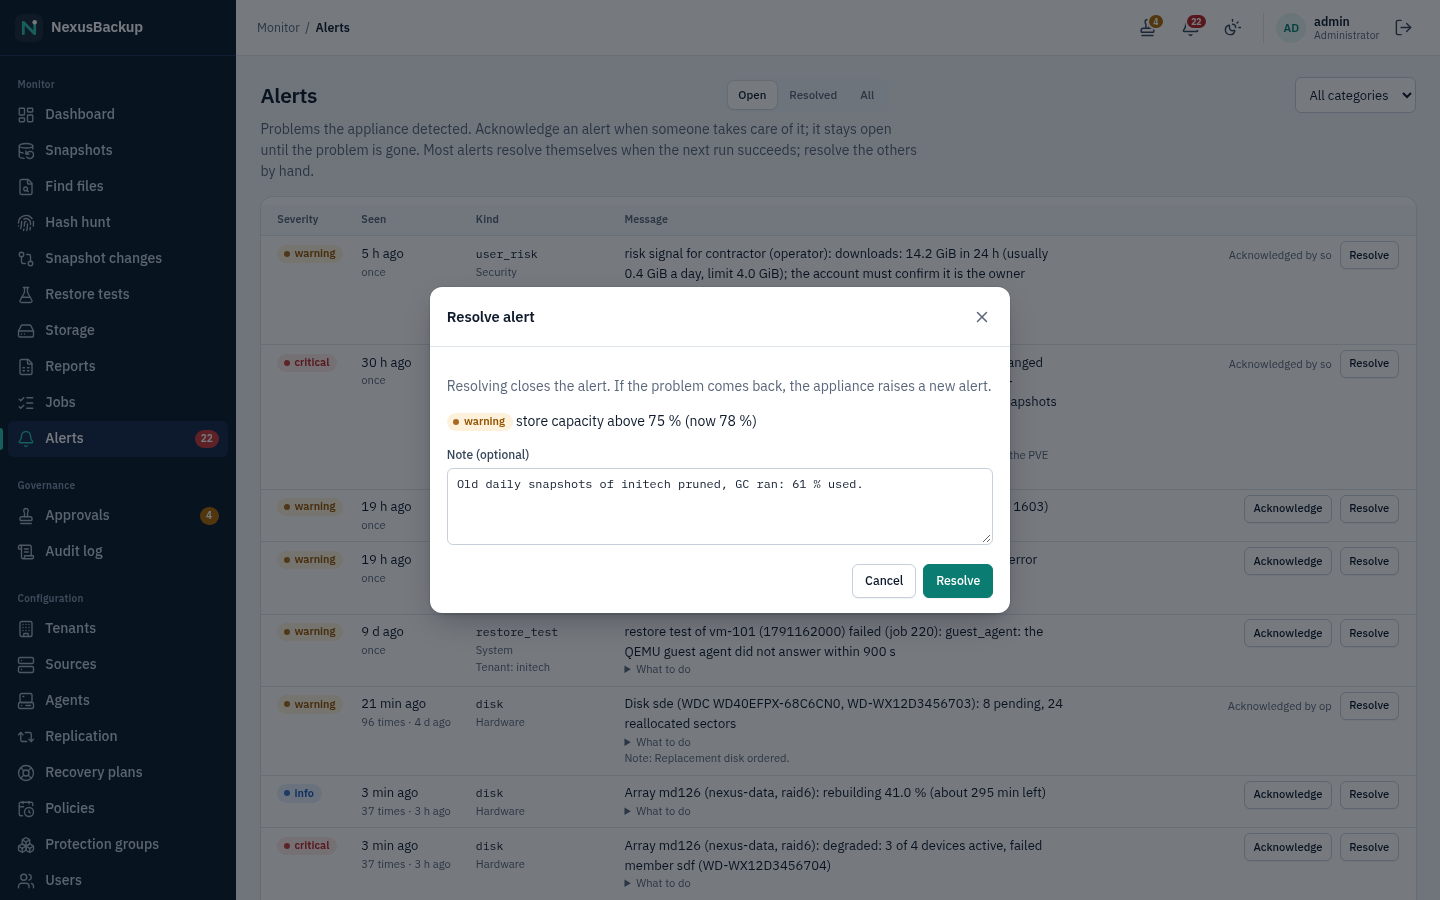
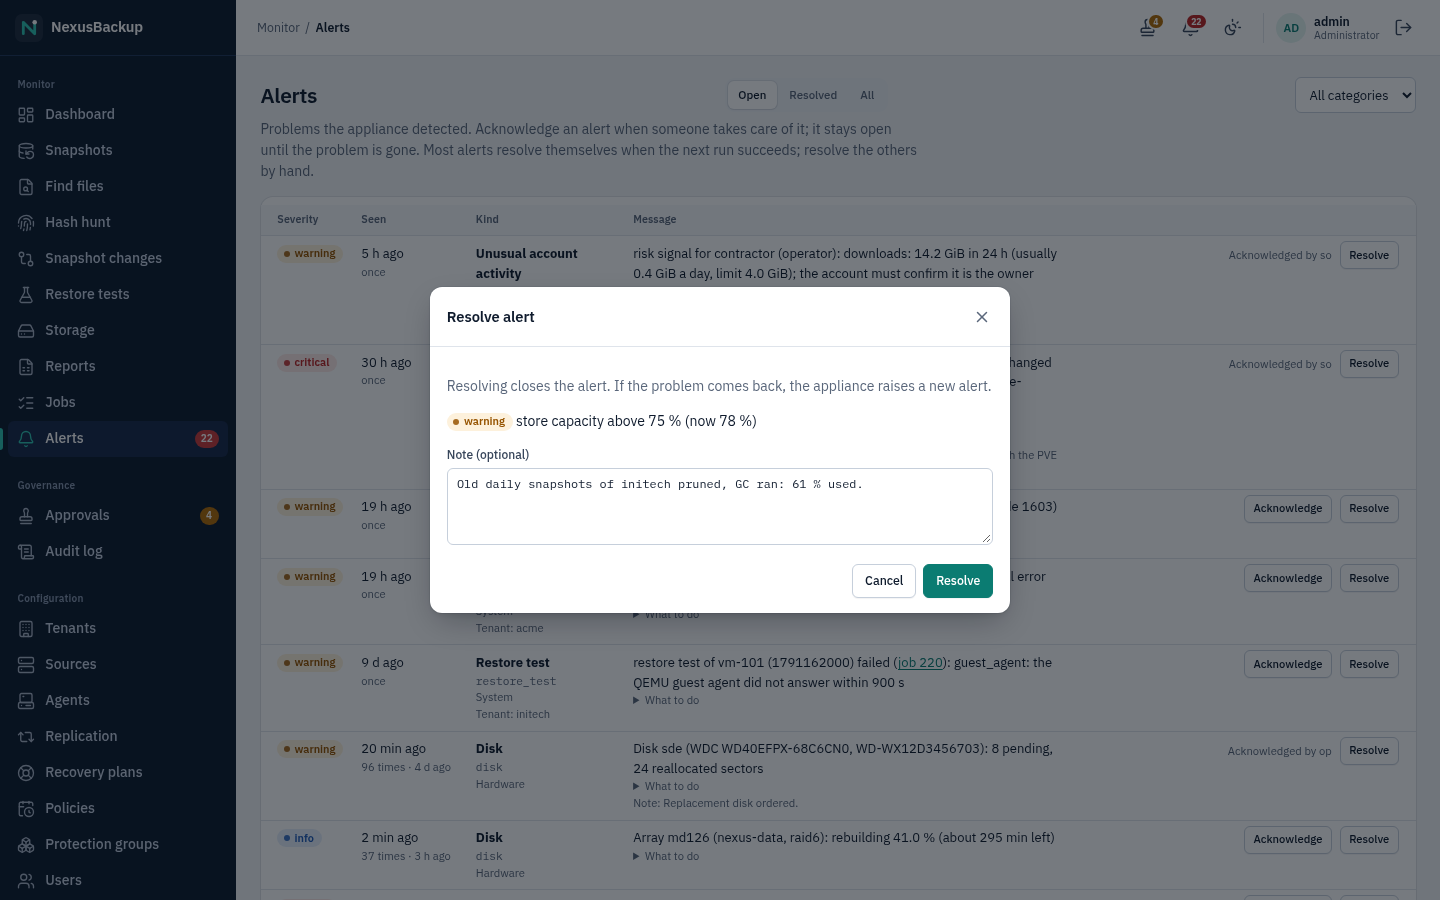
UI alerts: a readable title per alert kind (the code stays below), job numbers in messages link to the job

diff --git a/web/src/lib/i18n.ts b/web/src/lib/i18n.ts
@@ -2554,6 +2554,50 @@ export const en = {
       audit: 'Audit',
     } as Record<string, string>,
     seen: 'Seen',
+    // titles of the alert kinds whose code does not read as a title on its own (others: from the code)
+    kindTitles: {
+      sla_missed: 'RPO missed',
+      gc_quorum: 'Garbage collection needs approval',
+      gc_confirm: 'Garbage collection to confirm',
+      dek_rotation: 'Data key rotation',
+      cert_expiry: 'Certificate expires',
+      vmid_reused: 'VM ID reused by another VM',
+      offsite_lag: 'Offsite copy behind',
+      fleecing_space: 'Fleecing storage low',
+      inventory: 'Guest inventory changed',
+      inventory_refresh: 'Guest inventory not refreshed',
+      consistency: 'Backup not application-consistent',
+      backup_inconsistent: 'Inconsistent backup',
+      orphaned: 'Snapshots of no group',
+      paused: 'Group paused too long',
+      verify: 'Verification found damage',
+      snapshot_damaged: 'Damaged snapshot',
+      job_failed: 'Job failed',
+      clock_skew: 'Clock out of sync',
+      mgmt_allow_reset: 'Management access reset',
+      firewall_reset: 'Firewall reset',
+      console_unlock: 'Console unlocked',
+      console_root_shell: 'Root shell on the console',
+      break_glass: 'Break-glass recovery used',
+      legal_hold_advisory: 'Legal hold advisory',
+      index_backlog: 'File index behind',
+      index_space: 'File index paused (space)',
+      hash_hunt_hit: 'IOC hash found',
+      scan_hit: 'Malware scan hit',
+      malware: 'Malware found',
+      anomaly: 'Unusual changes (ransomware signal)',
+      user_risk: 'Unusual account activity',
+      login_new_device: 'Sign-in from a new device',
+      change_tracking: 'Change tracking missed data',
+      replication_keys: 'Replication keys',
+      replication_verify: 'Replica verification failed',
+      vault_closed: 'Vault closed',
+      vault_disabled: 'Vault disabled',
+      tenant_disabled: 'Tenant disabled',
+      tenant_lockdown: 'Tenant locked down',
+      something_new: 'New version available',
+      test: 'Test alert',
+    } as Record<string, string>,
     count: (n: number) => (n === 1 ? 'once' : `${n} times`),
     firstLast: (first: string, last: string) => `first ${first}, last ${last}`,
     tenant: "Tenant",

diff --git a/web/src/pages/Alerts.svelte b/web/src/pages/Alerts.svelte
@@ -3,7 +3,7 @@
   import { get, post, act, errText, qs } from '../lib/api';
   import { session } from '../lib/session.svelte';
   import { can } from '../lib/roles';
-  import { route } from '../lib/router.svelte';
+  import { href, route } from '../lib/router.svelte';
   import { fmtAgo, fmtTime } from '../lib/format';
   import { t } from '../lib/i18n';
   import type { Alert, Snapshot } from '../lib/types';
@@ -108,6 +108,20 @@
       load();
     }
   }
+  /** A readable title of an alert kind (`user_risk` -> "Unusual account activity" or "User risk"). */
+  const kindTitle = (k: string) => t.alerts.kindTitles[k] ?? k.charAt(0).toUpperCase() + k.slice(1).replaceAll('_', ' ');
+  /** The message split around "job N" mentions (links to the job). */
+  function linkParts(m: string): { text: string; job?: number }[] {
+    const out: { text: string; job?: number }[] = [];
+    let last = 0;
+    for (const x of m.matchAll(/\bjob #?(\d+)\b/g)) {
+      out.push({ text: m.slice(last, x.index) });
+      out.push({ text: x[0], job: Number(x[1]) });
+      last = x.index! + x[0].length;
+    }
+    out.push({ text: m.slice(last) });
+    return out;
+  }
 </script>
 
 <div class="page-head">
@@ -154,12 +168,15 @@
                 <div class="muted small">{t.alerts.count(a.count)}{a.count > 1 ? ` · ${fmtAgo(a.first_ts)}` : ''}</div>
               </td>
               <td>
-                <span class="mono">{a.kind}</span>
+                <strong>{kindTitle(a.kind)}</strong>
+                <div class="muted small mono">{a.kind}</div>
                 <div class="muted small">{t.alerts.categories[a.category] ?? a.category}</div>
                 {#if a.tenant}<div class="muted small">{t.alerts.tenant}: {a.tenant}</div>{/if}
               </td>
               <td>
-                {a.message}
+                <!-- "job 220" in a message opens that job -->
+                {#each linkParts(a.message) as part, i (i)}{#if part.job}<a href={href(`/jobs/${part.job}`)}>{part.text}</a
+                    >{:else}{part.text}{/if}{/each}
                 <details class="alert-hint">
                   <summary>{t.alerts.whatToDo}</summary>
                   <p>{hint(a)}</p>
